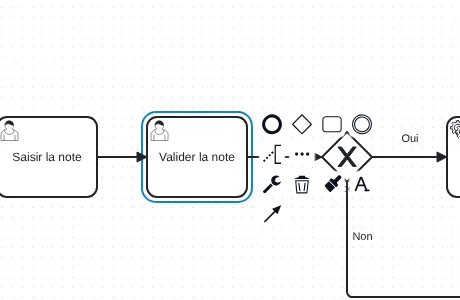
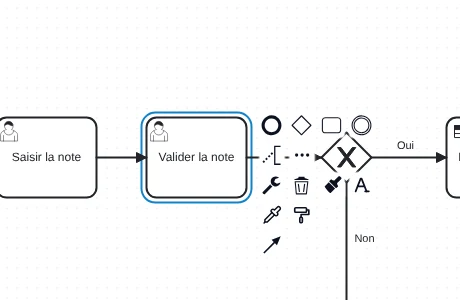
Add a Copy style button to the context menu
An eyedropper next to the Paste style roller remembers the selected
element's style, like the Copy style button of the panel. Copying from
either place refreshes the other, so the roller shows up at once.
Update the help and its context menu screenshots.

diff --git a/src/appearance-panel.js b/src/appearance-panel.js
@@ -171,9 +171,12 @@ function styleOf(element) {
 const styleKey = (style) => JSON.stringify([style.fill, style.stroke, style.textColor, style.font && Object.keys(style.font).sort().map((k) => [k, style.font[k]])])
 const isDefaultStyle = (style) => !style.fill && !style.stroke && !style.font && !style.textColor
 
-function copyStyle(element) {
+// Copie depuis le panneau ou depuis la pipette du menu contextuel : l'événement
+// met à jour l'autre endroit (bouton Coller du panneau, rouleau du menu).
+function copyStyle(eventBus, element) {
   copied = styleOf(element)
   try { localStorage.setItem(STYLE_KEY, JSON.stringify(copied)) } catch { /* stockage indisponible : le style vaut pour cette page */ }
+  eventBus.fire('appearance.styleCopied', { element, style: copied })
 }
 
 const pasteTargets = (elements) => [...new Set(elements.map(targetOf))].filter(hasAppearance)
@@ -331,12 +334,18 @@ function RollerPreview({ style }) {
 
 function CopyPasteEntry({ element, id }) {
   const commandStack = useService('commandStack')
+  const eventBus = useService('eventBus')
   const [, setVersion] = useState(0)
+  useEffect(() => {
+    const refresh = () => setVersion((v) => v + 1)
+    eventBus.on('appearance.styleCopied', refresh)
+    return () => eventBus.off('appearance.styleCopied', refresh)
+  }, [eventBus])
   return html`<div class="bio-properties-panel-entry appearance-entry" data-entry-id=${id}>
     <div class="appearance-row">
       <button type="button" class="appearance-button" id=${id + '-copy'}
         title=${T("Remember this element's colors and text formatting", 'Retenir les couleurs et la mise en forme du texte de cet élément')}
-        onClick=${() => { copyStyle(element); setVersion((v) => v + 1) }}>${T('Copy style', 'Copier le style')}</button>
+        onClick=${() => copyStyle(eventBus, element)}>${T('Copy style', 'Copier le style')}</button>
       <button type="button" class="appearance-button" id=${id + '-paste'} disabled=${!copied}
         title=${copied ? T('Apply the copied style to this element', 'Appliquer le style copié à cet élément') : T('Copy a style first', "Copiez d'abord un style")}
         onClick=${() => pasteStyle(commandStack, [element])}>
@@ -347,6 +356,7 @@ function CopyPasteEntry({ element, id }) {
   </div>`
 }
 
+const PIPETTE_ICON = `<svg xmlns="http://www.w3.org/2000/svg" width="22" height="22" viewBox="0 0 24 24" fill="none" stroke="currentColor" stroke-width="1.8" stroke-linecap="round" stroke-linejoin="round"><path d="m2.5 21.5 1-1h2.8l8.6-8.6"/><path d="M3.5 20.5v-2.8l8.6-8.6"/><path d="m15 6 3.4-3.4a2.1 2.1 0 1 1 3 3L18 9l.4.4a2.1 2.1 0 1 1-3 3l-3.8-3.8a2.1 2.1 0 1 1 3-3l.4.4Z"/></svg>`
 const ROLLER_ICON = `<svg xmlns="http://www.w3.org/2000/svg" width="22" height="22" viewBox="0 0 22 22" fill="none" stroke="currentColor" stroke-width="1.8" stroke-linecap="round" stroke-linejoin="round"><rect x="3" y="3" width="13" height="5" rx="1.2"/><path d="M16 5.5h2.5v5H10v3"/><rect x="8.6" y="13.5" width="2.8" height="6" rx="1"/></svg>`
 
 // ── Couleurs de la forme ────────────────────────────────────────────────────
@@ -535,6 +545,7 @@ function AppearanceContextPad(contextPad, eventBus, propertiesPanel, commandStac
   this._popupMenu = popupMenu
   this._modeling = modeling
   this._elementRegistry = elementRegistry
+  this._eventBus = eventBus
   let layout = {}
   eventBus.on('propertiesPanel.layoutChanged', ({ layout: current }) => { layout = current || {} })
 
@@ -549,6 +560,12 @@ function AppearanceContextPad(contextPad, eventBus, propertiesPanel, commandStac
       group.querySelector('.bio-properties-panel-group-header')?.focus?.({ preventScroll: true })
     }))
   }
+
+  // Un style copié fait apparaître le rouleau : on redessine le menu ouvert.
+  eventBus.on('appearance.styleCopied', () => {
+    const target = contextPad._current?.target
+    if (target) contextPad.open(target, true)
+  })
 
   popupMenu.registerProvider(QUICK_SHAPE_MENU, { getPopupMenuEntries: (element) => this._shapeEntries(element) })
   popupMenu.registerProvider(QUICK_TEXT_MENU, { getPopupMenuEntries: (element) => this._textEntries(element) })
@@ -625,6 +642,18 @@ AppearanceContextPad.prototype._textEntries = function (element) {
   return { ...entries, ...this._moreEntries('quick-text', TEXT_GROUP, set(null), !color) }
 }
 
+// Pipette : retient le style de l'élément, comme Copier le style du panneau.
+AppearanceContextPad.prototype._copyEntry = function (element) {
+  return {
+    'copy-style': {
+      group: 'edit',
+      title: T('Copy style', 'Copier le style'),
+      html: `<div class="entry">${PIPETTE_ICON}</div>`,
+      action: { click: () => copyStyle(this._eventBus, element) },
+    },
+  }
+}
+
 AppearanceContextPad.prototype._pasteEntry = function (elements) {
   if (!copied || !pasteTargets(elements).length) return {}
   return {
@@ -650,7 +679,7 @@ AppearanceContextPad.prototype.getContextPadEntries = function (element) {
     }
     redirect('set-color', QUICK_SHAPE_MENU, T('Shape color', 'Couleur de la forme'))
     if (hasText(targetOf(element))) redirect('label-style', QUICK_TEXT_MENU, T('Text color', 'Couleur du texte'))
-    return { ...entries, ...this._pasteEntry([element]) }
+    return { ...entries, ...this._copyEntry(element), ...this._pasteEntry([element]) }
   }
 }
 

diff --git a/aide.html b/aide.html
@@ -95,9 +95,10 @@
           <li><span class="ico bpmn-icon-connection-multi" aria-hidden="true"></span><span class="ui">Relier à un autre élément</span> (la flèche oblique) : cliquez dessus, puis sur l'élément cible pour tracer un flux.</li>
           <li><span class="ico bpmn-icon-screw-wrench" aria-hidden="true"></span><span class="ui">Changer l'élément</span> (la clé à molette) transforme l'élément sans le redessiner : ses liens et son libellé sont conservés. Voir le détail ci-dessous.</li>
           <li><span class="ico bpmn-icon-trash" aria-hidden="true"></span><span class="ui">Supprimer</span> (la corbeille) retire l'élément et ses flux.</li>
-          <li><svg class="ico" viewBox="0 0 22 22" fill="currentColor" aria-hidden="true"><path d="m12.5 5.5.3-.4 3.6-3.6c.5-.5 1.3-.5 1.7 0l1 1c.5.4.5 1.2 0 1.7l-3.6 3.6-.4.2v.2c0 1.4.6 2 1 2.7v.6l-1.7 1.6c-.2.2-.4.2-.6 0L7.3 6.6a.4.4 0 0 1 0-.6l.3-.3.5-.5.8-.8c.2-.2.4-.1.6 0 .9.5 1.5 1.1 3 1.1zm-9.9 6 4.2-4.2 6.3 6.3-4.2 4.2c-.3.3-.9.3-1.2 0l-.8-.8-.9-.8-2.3-2.9"/></svg><span class="ui">Choisir la couleur</span> (le pinceau) et <svg class="ico" viewBox="0 0 22 22" fill="none" stroke="currentColor" stroke-width="1.9" stroke-linecap="round" stroke-linejoin="round" aria-hidden="true"><path d="M4 18 9.5 4h1L16 18M6.3 12.5h7.4"/><path d="M14.5 18h4"/></svg><span class="ui">Mise en forme du texte</span> (le bouton A) ouvrent un petit menu de couleurs pour un élément, ou leur menu complet pour plusieurs. Ils sont décrits dans <a href="#couleurs-texte">Couleurs et texte</a>, avec <span class="ui">Coller le style</span> (le rouleau), affiché une fois un style copié.</li>
+          <li><svg class="ico" viewBox="0 0 22 22" fill="currentColor" aria-hidden="true"><path d="m12.5 5.5.3-.4 3.6-3.6c.5-.5 1.3-.5 1.7 0l1 1c.5.4.5 1.2 0 1.7l-3.6 3.6-.4.2v.2c0 1.4.6 2 1 2.7v.6l-1.7 1.6c-.2.2-.4.2-.6 0L7.3 6.6a.4.4 0 0 1 0-.6l.3-.3.5-.5.8-.8c.2-.2.4-.1.6 0 .9.5 1.5 1.1 3 1.1zm-9.9 6 4.2-4.2 6.3 6.3-4.2 4.2c-.3.3-.9.3-1.2 0l-.8-.8-.9-.8-2.3-2.9"/></svg><span class="ui">Choisir la couleur</span> (le pinceau) et <svg class="ico" viewBox="0 0 22 22" fill="none" stroke="currentColor" stroke-width="1.9" stroke-linecap="round" stroke-linejoin="round" aria-hidden="true"><path d="M4 18 9.5 4h1L16 18M6.3 12.5h7.4"/><path d="M14.5 18h4"/></svg><span class="ui">Mise en forme du texte</span> (le bouton A) ouvrent un petit menu de couleurs pour un élément, ou leur menu complet pour plusieurs. Ils sont décrits dans <a href="#couleurs-texte">Couleurs et texte</a>.</li>
+          <li><svg class="ico" viewBox="0 0 24 24" fill="none" stroke="currentColor" stroke-width="1.8" stroke-linecap="round" stroke-linejoin="round" aria-hidden="true"><path d="m2.5 21.5 1-1h2.8l8.6-8.6"/><path d="M3.5 20.5v-2.8l8.6-8.6"/><path d="m15 6 3.4-3.4a2.1 2.1 0 1 1 3 3L18 9l.4.4a2.1 2.1 0 1 1-3 3l-3.8-3.8a2.1 2.1 0 1 1 3-3l.4.4Z"/></svg><span class="ui">Copier le style</span> (la pipette) retient le fond, le contour, la police et la couleur du texte de l'élément. <svg class="ico" viewBox="0 0 22 22" fill="none" stroke="currentColor" stroke-width="1.8" stroke-linecap="round" stroke-linejoin="round" aria-hidden="true"><rect x="3" y="3" width="13" height="5" rx="1.2"/><path d="M16 5.5h2.5v5H10v3"/><rect x="8.6" y="13.5" width="2.8" height="6" rx="1"/></svg><span class="ui">Coller le style</span> (le rouleau), affiché une fois un style copié, les applique à l'élément sélectionné, ou à plusieurs d'un coup.</li>
         </ul>
-        <figure><img src="/src/help/img/fr-menu-contextuel.webp" width="460" height="300" alt="Menu contextuel d'une tâche sélectionnée : éléments à ajouter, connexion, changement de type, couleur, texte et suppression." loading="lazy" /><figcaption>Le menu contextuel d'une tâche sélectionnée.</figcaption></figure>
+        <figure><img src="/src/help/img/fr-menu-contextuel.webp" width="460" height="300" alt="Menu contextuel d'une tâche sélectionnée : éléments à ajouter, connexion, changement de type, couleur, texte, copie du style et suppression." loading="lazy" /><figcaption>Le menu contextuel d'une tâche sélectionnée.</figcaption></figure>
         <h3><span class="ico bpmn-icon-screw-wrench" aria-hidden="true"></span>Changer l'élément</h3>
         <p>La clé à molette ouvre la fenêtre <span class="ui">Changer l'élément</span>. Elle liste les types compatibles avec l'élément choisi : une tâche peut devenir tâche utilisateur, tâche de service, activité d'appel ou sous-processus, un événement de début peut devenir événement de début de message ou de minuteur, etc. Tapez quelques lettres dans le champ de recherche pour filtrer la liste, puis cliquez sur un type ou validez avec <kbd>Entrée</kbd>. La touche <kbd>R</kbd> ouvre la même fenêtre au clavier.</p>
         <p>Pour une tâche ou un sous-processus, les icônes en haut à droite de la fenêtre ajoutent un marqueur sans changer le type : multi-instance parallèle <span class="ico bpmn-icon-parallel-mi-marker" aria-hidden="true"></span>, multi-instance séquentielle <span class="ico bpmn-icon-sequential-mi-marker" aria-hidden="true"></span> et boucle <span class="ico bpmn-icon-loop-marker" aria-hidden="true"></span>. Un second clic retire le marqueur. Le nombre de boucles et la condition d'achèvement se règlent ensuite dans le <a href="#proprietes">panneau Processus</a>.</p>

diff --git a/help.html b/help.html
@@ -95,9 +95,10 @@
           <li><span class="ico bpmn-icon-connection-multi" aria-hidden="true"></span><span class="ui">Connect to other element</span> (the slanted arrow): click it, then click the target element to draw a flow.</li>
           <li><span class="ico bpmn-icon-screw-wrench" aria-hidden="true"></span><span class="ui">Change element</span> (the wrench) turns the element into another type without redrawing it: its links and label are kept. See the details below.</li>
           <li><span class="ico bpmn-icon-trash" aria-hidden="true"></span><span class="ui">Delete</span> (the bin) removes the element and its flows.</li>
-          <li><svg class="ico" viewBox="0 0 22 22" fill="currentColor" aria-hidden="true"><path d="m12.5 5.5.3-.4 3.6-3.6c.5-.5 1.3-.5 1.7 0l1 1c.5.4.5 1.2 0 1.7l-3.6 3.6-.4.2v.2c0 1.4.6 2 1 2.7v.6l-1.7 1.6c-.2.2-.4.2-.6 0L7.3 6.6a.4.4 0 0 1 0-.6l.3-.3.5-.5.8-.8c.2-.2.4-.1.6 0 .9.5 1.5 1.1 3 1.1zm-9.9 6 4.2-4.2 6.3 6.3-4.2 4.2c-.3.3-.9.3-1.2 0l-.8-.8-.9-.8-2.3-2.9"/></svg><span class="ui">Set color</span> (the brush) and <svg class="ico" viewBox="0 0 22 22" fill="none" stroke="currentColor" stroke-width="1.9" stroke-linecap="round" stroke-linejoin="round" aria-hidden="true"><path d="M4 18 9.5 4h1L16 18M6.3 12.5h7.4"/><path d="M14.5 18h4"/></svg><span class="ui">Text formatting</span> (the A button) open a small color menu for one element, or their full menu for several. They are covered in <a href="#colors-text">Colors and text</a>, with <span class="ui">Paste style</span> (the roller), shown once a style has been copied.</li>
+          <li><svg class="ico" viewBox="0 0 22 22" fill="currentColor" aria-hidden="true"><path d="m12.5 5.5.3-.4 3.6-3.6c.5-.5 1.3-.5 1.7 0l1 1c.5.4.5 1.2 0 1.7l-3.6 3.6-.4.2v.2c0 1.4.6 2 1 2.7v.6l-1.7 1.6c-.2.2-.4.2-.6 0L7.3 6.6a.4.4 0 0 1 0-.6l.3-.3.5-.5.8-.8c.2-.2.4-.1.6 0 .9.5 1.5 1.1 3 1.1zm-9.9 6 4.2-4.2 6.3 6.3-4.2 4.2c-.3.3-.9.3-1.2 0l-.8-.8-.9-.8-2.3-2.9"/></svg><span class="ui">Set color</span> (the brush) and <svg class="ico" viewBox="0 0 22 22" fill="none" stroke="currentColor" stroke-width="1.9" stroke-linecap="round" stroke-linejoin="round" aria-hidden="true"><path d="M4 18 9.5 4h1L16 18M6.3 12.5h7.4"/><path d="M14.5 18h4"/></svg><span class="ui">Text formatting</span> (the A button) open a small color menu for one element, or their full menu for several. They are covered in <a href="#colors-text">Colors and text</a>.</li>
+          <li><svg class="ico" viewBox="0 0 24 24" fill="none" stroke="currentColor" stroke-width="1.8" stroke-linecap="round" stroke-linejoin="round" aria-hidden="true"><path d="m2.5 21.5 1-1h2.8l8.6-8.6"/><path d="M3.5 20.5v-2.8l8.6-8.6"/><path d="m15 6 3.4-3.4a2.1 2.1 0 1 1 3 3L18 9l.4.4a2.1 2.1 0 1 1-3 3l-3.8-3.8a2.1 2.1 0 1 1 3-3l.4.4Z"/></svg><span class="ui">Copy style</span> (the eyedropper) remembers the element's fill, stroke, font and text color. <svg class="ico" viewBox="0 0 22 22" fill="none" stroke="currentColor" stroke-width="1.8" stroke-linecap="round" stroke-linejoin="round" aria-hidden="true"><rect x="3" y="3" width="13" height="5" rx="1.2"/><path d="M16 5.5h2.5v5H10v3"/><rect x="8.6" y="13.5" width="2.8" height="6" rx="1"/></svg><span class="ui">Paste style</span> (the roller), shown once a style has been copied, applies them to the selected element, or to several at once.</li>
         </ul>
-        <figure><img src="/src/help/img/en-menu-contextuel.webp" width="460" height="300" alt="Context menu of a selected task: elements to append, connect, change type, color, text and delete." loading="lazy" /><figcaption>The context menu of a selected task.</figcaption></figure>
+        <figure><img src="/src/help/img/en-menu-contextuel.webp" width="460" height="300" alt="Context menu of a selected task: elements to append, connect, change type, color, text, copy style and delete." loading="lazy" /><figcaption>The context menu of a selected task.</figcaption></figure>
         <h3><span class="ico bpmn-icon-screw-wrench" aria-hidden="true"></span>Change element</h3>
         <p>The wrench opens the <span class="ui">Change element</span> window. It lists the types that fit the selected element: a task can become a user task, a service task, a call activity or a sub-process, a start event can become a message or timer start event, and so on. Type a few letters in the search field to filter the list, then click a type or press <kbd>Enter</kbd>. The <kbd>R</kbd> key opens the same window from the keyboard.</p>
         <p>For a task or a sub-process, the icons at the top right of the window add a marker without changing the type: parallel multi-instance <span class="ico bpmn-icon-parallel-mi-marker" aria-hidden="true"></span>, sequential multi-instance <span class="ico bpmn-icon-sequential-mi-marker" aria-hidden="true"></span> and loop <span class="ico bpmn-icon-loop-marker" aria-hidden="true"></span>. Click again to remove the marker. You then set the loop cardinality and completion condition in the <a href="#properties">Process panel</a>.</p>
